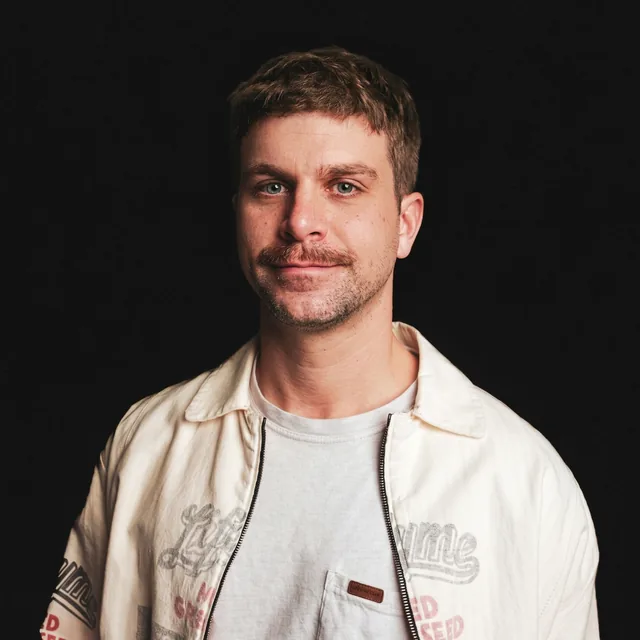
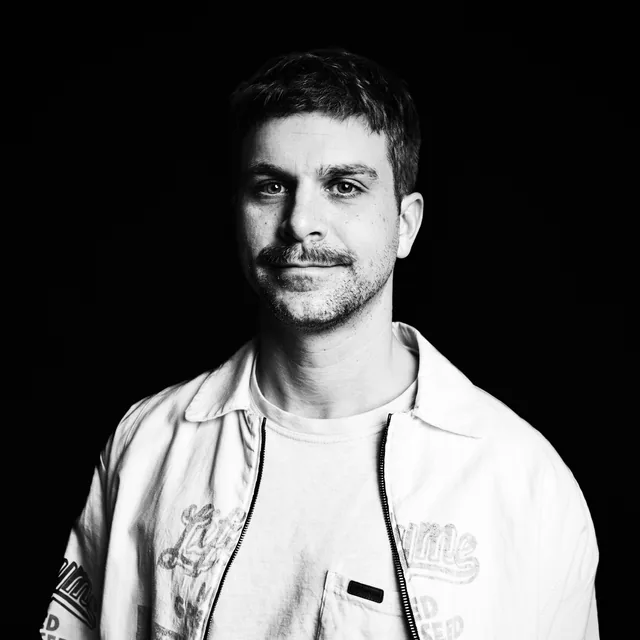
Contact: the black and white headshot, same square top crop

diff --git a/scripts/cut-portrait.py b/scripts/cut-portrait.py
@@ -1,12 +1,12 @@
 """Cuts the Contact portrait. Pillow only, pixels only (run with python3 -I).
-Source: 'Scott Campbell Portrait 1.png' (1684 by 2528, studio headshot on black), kept out of the repo for size, at
+Source: portrait-noir.jpeg (1684 by 2528, studio headshot on black, black and white), kept out of the repo for size, at
 ~/.claude/projects/-Users-aquapurp-code-nertia/scott-camp-assets/portrait/. Pass another path as the first argument.
 A 1:1 crop the full width of the frame, its top TOP px down so the head keeps its headroom (a centred square
 would cut through the forehead), at 640 (portrait.webp) and 320 (portrait-320.webp), quality 82."""
 import os, sys
 from PIL import Image
 
-SRC = sys.argv[1] if len(sys.argv) > 1 else os.path.expanduser('~/.claude/projects/-Users-aquapurp-code-nertia/scott-camp-assets/portrait/Scott Campbell Portrait 1.png')
+SRC = sys.argv[1] if len(sys.argv) > 1 else os.path.expanduser('~/.claude/projects/-Users-aquapurp-code-nertia/scott-camp-assets/portrait/portrait-noir.jpeg')
 OUT = 'public/evidence/'
 Q = 82
 TOP = 100

diff --git a/README.md b/README.md
@@ -52,7 +52,7 @@ Status on 2026-10-14: the code site `scottcamp` exists. Every push to `main` pub
 ## Design sources
 
 - `design/README.md`: which photograph each texture was cut from; `design/source/` holds those frames, `scripts/cut-tiles.py` reproduces `public/textures/`.
-- `scripts/cut-portrait.py` cuts the Contact portrait (`public/evidence/portrait.webp` 640 px and `portrait-320.webp`, 1:1 from the top of the frame so the head keeps its headroom, quality 82; above the Contact title on columns 1 to 4, 240 px on phones) from 'Scott Campbell Portrait 1.png' (1684 by 2528, studio headshot on black, 2026-10-16), kept out of the repo for size; the path is in the script. Caption reads Portrait until Scott confirms the year.
+- `scripts/cut-portrait.py` cuts the Contact portrait (`public/evidence/portrait.webp` 640 px and `portrait-320.webp`, 1:1 from the top of the frame so the head keeps its headroom, quality 82; above the Contact title on columns 1 to 4, 240 px on phones) from portrait-noir.jpeg (1684 by 2528, studio headshot on black, black and white, 2026-10-16), kept out of the repo for size; the path is in the script. Caption reads Portrait until Scott confirms the year.
 - Spec: `docs/superpowers/specs/2026-10-13-scott-camp-design-system.md` in `ps2pdx/nertia`, branch `claude/personal-website-design-ec0a29` (PR #1176), alongside the build plan in `docs/superpowers/plans/2026-10-14-scott-camp-site.md`.
 - Canvas prototype: https://claude.ai/artifact/R5WnhPbqkKSfmzCWyAY4na (`project/Main.dc.html`).
 - Originals on Scott's Mac: `~/Desktop/untitle/fullsize/` and `~/Desktop/untitle/fullsize/new/`; Photos album `somethings click'd`.
